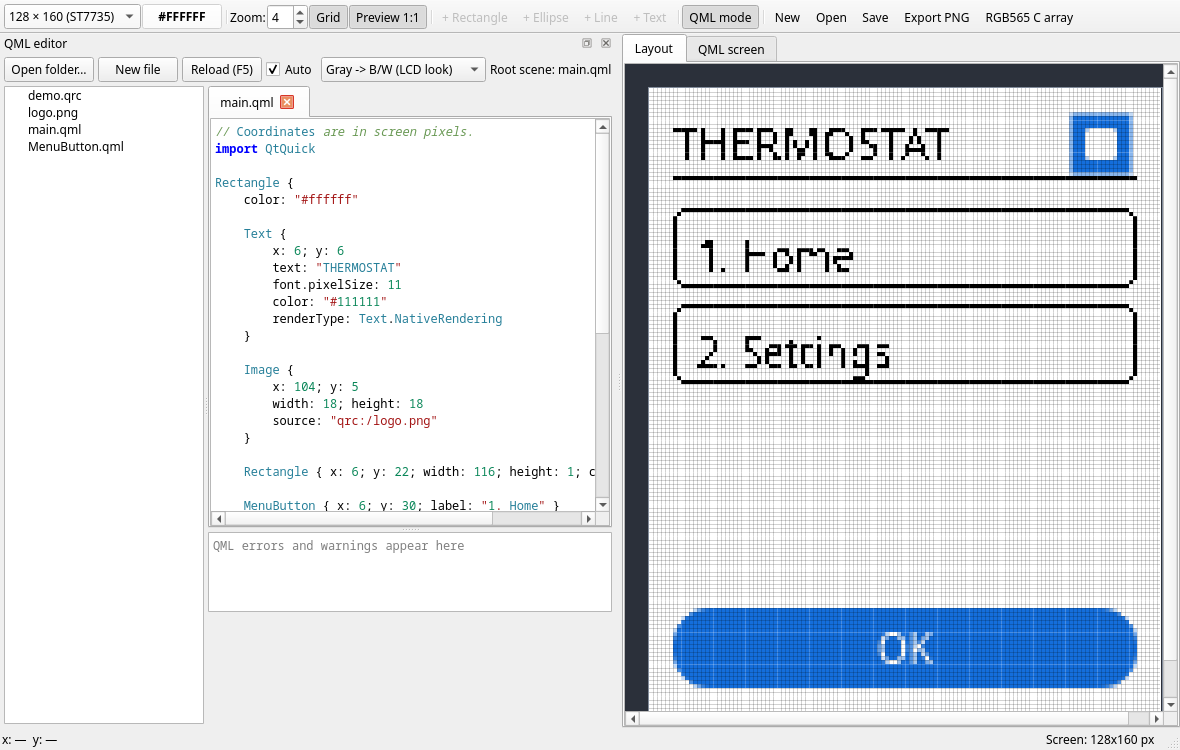
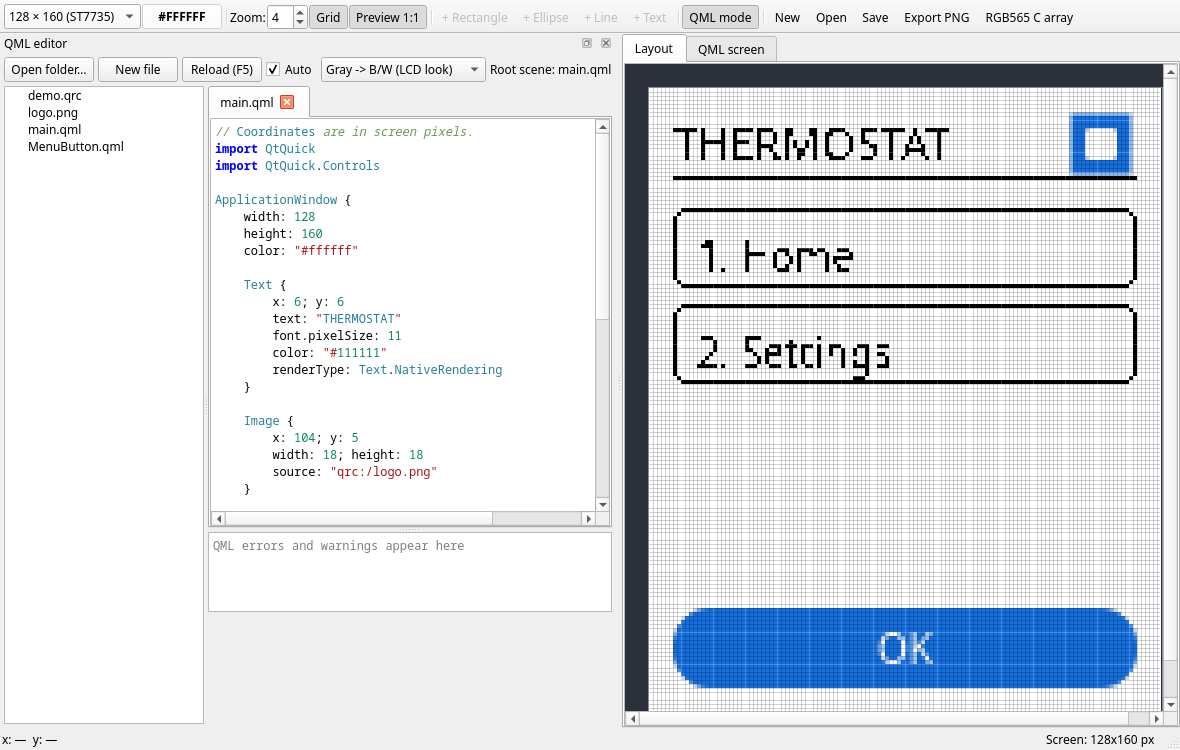
QML: ApplicationWindow as scene root, rendered via hidden QQuickWindow

Changed region(s): [[0.1831, 0.2147, 0.4576, 0.644]]

diff --git a/src/qmlpane.cpp b/src/qmlpane.cpp
@@ -22,12 +22,15 @@
 #include <QLineEdit>
 #include <QMenu>
 #include <QMimeData>
-#include <QPainter>
+#include <QQmlComponent>
 #include <QQmlEngine>
 #include <QQmlError>
 #include <QPlainTextEdit>
 #include <QPushButton>
+#include <QPainter>
+#include <QPixmap>
 #include <QQuickWidget>
+#include <QQuickWindow>
 #include <QRegularExpression>
 #include <QRegularExpressionValidator>
 #include <QShortcut>
@@ -37,7 +40,39 @@
 #include <QTreeView>
 #include <QUrl>
 #include <QVBoxLayout>
+#include <QWidget>
 #include <QXmlStreamReader>
+
+/** @brief Paints scene frames grabbed from a hidden QQuickWindow
+ *  (ApplicationWindow roots cannot live inside a QQuickWidget). */
+class QmlFrameView : public QWidget
+{
+public:
+    using QWidget::QWidget;
+
+    void setFrame(const QImage &img)
+    {
+        m_pix = QPixmap::fromImage(img);
+        update();
+    }
+
+protected:
+    void paintEvent(QPaintEvent *) override
+    {
+        QPainter p(this);
+        p.fillRect(rect(), Qt::white);
+        if (m_pix.isNull())
+            return;
+        const double s = qMin(width() / double(m_pix.width()),
+                              height() / double(m_pix.height()));
+        const int w = qMax(1, int(m_pix.width() * s));
+        const int h = qMax(1, int(m_pix.height() * s));
+        p.drawPixmap(QRect((width() - w) / 2, (height() - h) / 2, w, h), m_pix);
+    }
+
+private:
+    QPixmap m_pix;
+};
 
 /** @brief Threshold frame processing: Qt Quick antialiasing renders small
  *  text as gray pixels that do not exist on a pixel display. GrayToBw
@@ -94,8 +129,11 @@ private:
 
 static const char *kDemoMain = R"QML(// Coordinates are in screen pixels.
 import QtQuick
+import QtQuick.Controls
 
-Rectangle {
+ApplicationWindow {
+    width: 128
+    height: 160
     color: "#ffffff"
 
     Text {
@@ -290,11 +328,17 @@ void QmlPane::buildUi()
     connect(&m_debounce, &QTimer::timeout, this, &QmlPane::reloadNow);
 
     connect(&m_grabTimer, &QTimer::timeout, this, [this] {
-        if (!m_quick || m_quick->status() != QQuickWidget::Ready)
-            return;
-        QImage img = m_quick->grabFramebuffer();
+        QImage img;
+        if (m_hiddenWindow)
+            img = m_hiddenWindow->grabWindow();
+        else if (m_quick && m_quick->status() == QQuickWidget::Ready)
+            img = m_quick->grabFramebuffer();
         if (img.isNull())
             return;
+        if (m_previewWindow && m_previewView) {
+            m_previewWindow->resize(m_previewView->size());
+            m_previewView->setFrame(m_previewWindow->grabWindow());
+        }
         if (img.size() != QSize(m_w, m_h))
             img = img.scaled(m_w, m_h, Qt::IgnoreAspectRatio, Qt::FastTransformation);
         img = snapFrame(img, FrameSnap(m_snapCombo->currentIndex()));
@@ -323,23 +367,55 @@ void QmlPane::buildUi()
     connect(f5, &QShortcut::activated, this, &QmlPane::reloadNow);
 }
 
-QQuickWidget *QmlPane::previewWidget()
+QWidget *QmlPane::previewWidget()
 {
-    if (!m_previewQuick) {
-        m_previewQuick = new QQuickWidget(m_engine, nullptr);
-        m_previewQuick->setResizeMode(QQuickWidget::SizeRootObjectToView);
-        m_previewQuick->setClearColor(Qt::white);
-        m_previewQuick->setFixedSize(m_w, m_h);
-        connect(m_previewQuick, &QQuickWidget::statusChanged, this,
-                [this](QQuickWidget::Status st) {
-                    if (st == QQuickWidget::Error)
-                        for (const auto &err : m_previewQuick->errors())
-                            appendLog(err.toString());
-                });
+    if (!m_previewHost) {
+        m_previewHost = new QWidget(nullptr);
+        auto *lay = new QVBoxLayout(m_previewHost);
+        lay->setContentsMargins(0, 0, 0, 0);
         if (!m_dir.isEmpty() && !m_entry.isEmpty())
-            m_previewQuick->setSource(QUrl::fromLocalFile(QDir(m_dir).filePath(m_entry)));
+            rebuildPreview(QUrl::fromLocalFile(QDir(m_dir).filePath(m_entry)));
     }
-    return m_previewQuick;
+    return m_previewHost;
+}
+
+// Видимое превью поддерживает оба вида корня: Item рендерится в QQuickWidget,
+// ApplicationWindow (QQuickWindow) встраивается через createWindowContainer.
+void QmlPane::rebuildPreview(const QUrl &url)
+{
+    if (!m_previewHost)
+        return;
+    auto *lay = static_cast<QVBoxLayout *>(m_previewHost->layout());
+    while (lay->count() > 0)
+        delete lay->takeAt(0)->widget();
+    m_previewWindow = nullptr;
+    m_previewView = nullptr;
+
+    QQmlComponent comp(m_engine, url);
+    if (comp.isError()) {
+        for (const auto &e : comp.errors())
+            appendLog(e.toString());
+        return;
+    }
+    QObject *root = comp.create();
+    if (auto *win = qobject_cast<QQuickWindow *>(root)) {
+        m_previewWindow = win;
+        m_previewView = new QmlFrameView;
+        lay->addWidget(m_previewView);
+        return;
+    }
+    delete root;
+
+    auto *qw = new QQuickWidget(m_engine, nullptr);
+    qw->setResizeMode(QQuickWidget::SizeRootObjectToView);
+    qw->setClearColor(Qt::white);
+    connect(qw, &QQuickWidget::statusChanged, this, [this, qw](QQuickWidget::Status st) {
+        if (st == QQuickWidget::Error)
+            for (const auto &err : qw->errors())
+                appendLog(err.toString());
+    });
+    qw->setSource(url);
+    lay->addWidget(qw);
 }
 
 void QmlPane::setActive(bool active)
@@ -383,6 +459,8 @@ void QmlPane::setScreenSize(int width, int height)
     m_h = height;
     if (m_quick)
         m_quick->setFixedSize(m_w, m_h);
+    if (m_hiddenWindow)
+        m_hiddenWindow->resize(m_w, m_h);
 }
 
 bool QmlPane::openProjectDir(const QString &dir, const QString &entry)
@@ -641,14 +719,30 @@ void QmlPane::reloadNow()
     scanQrc();
     m_engine->clearComponentCache();
     const QUrl url = QUrl::fromLocalFile(QDir(m_dir).filePath(m_entry));
+
+    // скрытый рендерер 1:1: ApplicationWindow -> собственное скрытое окно,
+    // Item -> скрытый QQuickWidget
+    delete m_hiddenRoot;
+    m_hiddenWindow = nullptr;
     m_quick->setSource(QUrl());
-    m_quick->setSource(url);
-    if (m_quick->status() == QQuickWidget::Error) {
-        for (const auto &err : m_quick->errors())
-            appendLog(err.toString());
+    QQmlComponent comp(m_engine, url);
+    if (comp.isError()) {
+        for (const auto &e : comp.errors())
+            appendLog(e.toString());
+    } else if (QObject *root = comp.create()) {
+        if (auto *win = qobject_cast<QQuickWindow *>(root)) {
+            m_hiddenRoot = root;
+            m_hiddenWindow = win;
+            win->resize(m_w, m_h);
+        } else {
+            delete root;
+            m_quick->setSource(url);
+            if (m_quick->status() == QQuickWidget::Error) {
+                for (const auto &err : m_quick->errors())
+                    appendLog(err.toString());
+            }
+        }
     }
-    if (m_previewQuick) {
-        m_previewQuick->setSource(QUrl());
-        m_previewQuick->setSource(url);
-    }
+
+    rebuildPreview(url);
 }

diff --git a/src/qmlpane.h b/src/qmlpane.h
@@ -3,6 +3,7 @@
 #include <QImage>
 #include <QString>
 #include <QTemporaryDir>
+#include <QUrl>
 #include <QTimer>
 #include <QWidget>
 
@@ -12,6 +13,8 @@ class QLabel;
 class QQmlEngine;
 class QPlainTextEdit;
 class QQuickWidget;
+class QmlFrameView;
+class QQuickWindow;
 class QTabWidget;
 class QTreeView;
 class QrcUrlInterceptor;
@@ -53,13 +56,15 @@ public:
     QImage lastFrame() const { return m_lastFrame; }
 
     /**
-     * @brief Visible live scene renderer for the central preview area.
+     * @brief Stable host widget for the central preview area.
      *
-     * Shows the raw Qt Quick render: no pixel grid, no frame post-processing,
-     * resized by the owner to screen size x zoom. The hidden 1:1 renderer
-     * stays in the pane and keeps feeding device-true frames.
+     * Hosts either a QQuickWidget (Item root, e.g. Rectangle) or a window
+     * container (ApplicationWindow root); swapped automatically on reload.
+     * Shows the raw Qt Quick render: no pixel grid, no post-processing;
+     * resized by the owner, keeping the display aspect ratio. The hidden
+     * 1:1 renderer stays in the pane and keeps feeding device-true frames.
      */
-    QQuickWidget *previewWidget();
+    QWidget *previewWidget();
 
 signals:
     void frameUpdated(const QImage &image); ///< new frame after post-processing
@@ -81,6 +86,7 @@ private:
     void pickDefaultEntry();
     void updateEntryLabel();
     void scanQrc(); ///< rebuild the qrc:/ -> file mapping from *.qrc files
+    void rebuildPreview(const QUrl &url); ///< reload the visible preview for both root kinds
     void newFile();
     void appendLog(const QString &line);
 
@@ -92,8 +98,12 @@ private:
     QFileSystemModel *m_fsModel = nullptr;
     QTabWidget *m_tabs = nullptr;
     QPlainTextEdit *m_log = nullptr;
-    QQuickWidget *m_quick = nullptr; ///< hidden offscreen scene renderer
-    QQuickWidget *m_previewQuick = nullptr; ///< visible renderer, owned by the caller
+    QQuickWidget *m_quick = nullptr; ///< hidden renderer for Item roots
+    QQuickWindow *m_hiddenWindow = nullptr; ///< hidden renderer for ApplicationWindow roots
+    QQuickWindow *m_previewWindow = nullptr; ///< hidden renderer feeding the visible preview
+    QObject *m_hiddenRoot = nullptr;  ///< component instance owning m_hiddenWindow
+    QWidget *m_previewHost = nullptr; ///< stable host, given to the main window
+    QmlFrameView *m_previewView = nullptr; ///< paints the preview window frames
     QQmlEngine *m_engine = nullptr;
     QrcUrlInterceptor *m_interceptor = nullptr;
     QComboBox *m_snapCombo = nullptr; ///< FrameSnap mode selector
